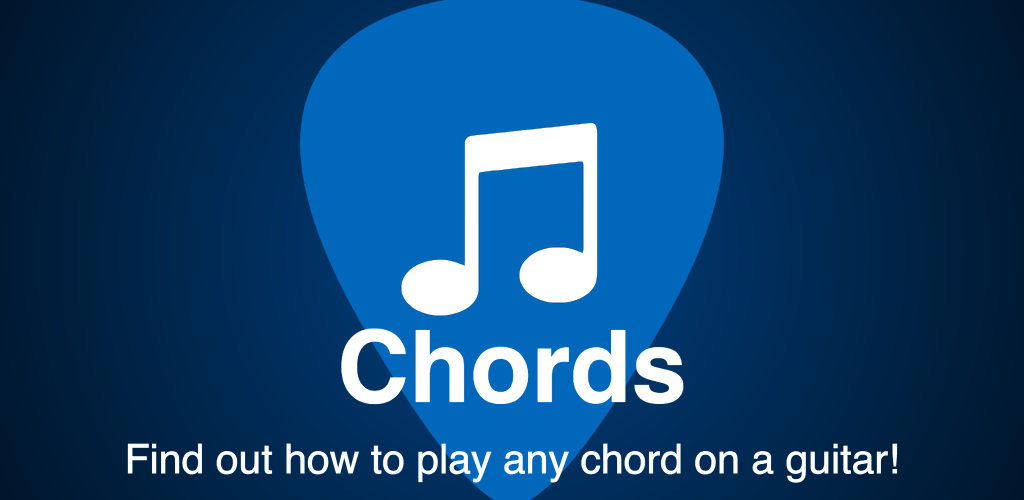
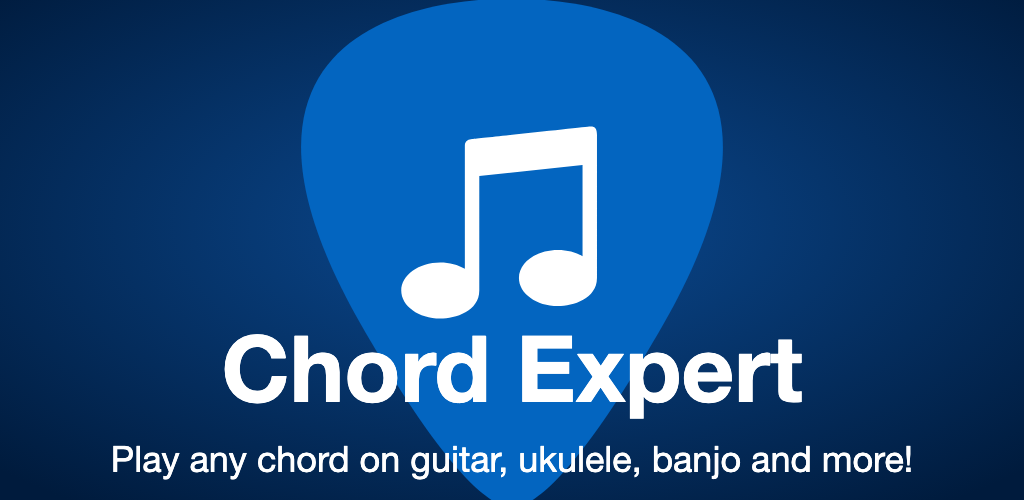
Rename the app to Chord Expert and refresh branding
Update the app name shown on Android, iOS and the web, switch the app
icon to a black background, and regenerate the store feature graphic
from the new branding/feature.svg source.

diff --git a/Chords.App/wwwroot/index.html b/Chords.App/wwwroot/index.html
@@ -3,7 +3,7 @@
 <head>
     <meta charset="utf-8" />
     <meta name="viewport" content="width=device-width, initial-scale=1.0, maximum-scale=1.0, user-scalable=no, viewport-fit=cover" />
-    <title>ChordGuide</title>
+    <title>Chord Expert</title>
     <base href="/" />
     <link rel="stylesheet" href="css/bootstrap.min.css" />
     <link rel="stylesheet" href="css/bootstrap-toggle.min.css" />

diff --git a/Chords.App/Platforms/Android/MainActivity.cs b/Chords.App/Platforms/Android/MainActivity.cs
@@ -7,7 +7,7 @@ namespace Chords.App;
 // Xamarin version point at it.
 [Activity(
     Name = "com.tnemec.chords.android.MainActivity",
-    Label = "ChordGuide",
+    Label = "Chord Expert",
     Theme = "@style/Maui.SplashTheme",
     MainLauncher = true,
     Exported = true,

diff --git a/Chords.App/App.cs b/Chords.App/App.cs
@@ -3,5 +3,5 @@ namespace Chords.App;
 public class App : Application
 {
     protected override Window CreateWindow(IActivationState activationState)
-        => new(new MainPage()) { Title = "ChordGuide" };
+        => new(new MainPage()) { Title = "Chord Expert" };
 }

diff --git a/README.md b/README.md
@@ -1,2 +1,2 @@
-# ChordGuide
+# Chord Expert
 Guitar chords, keys, progressions and a tuner.
